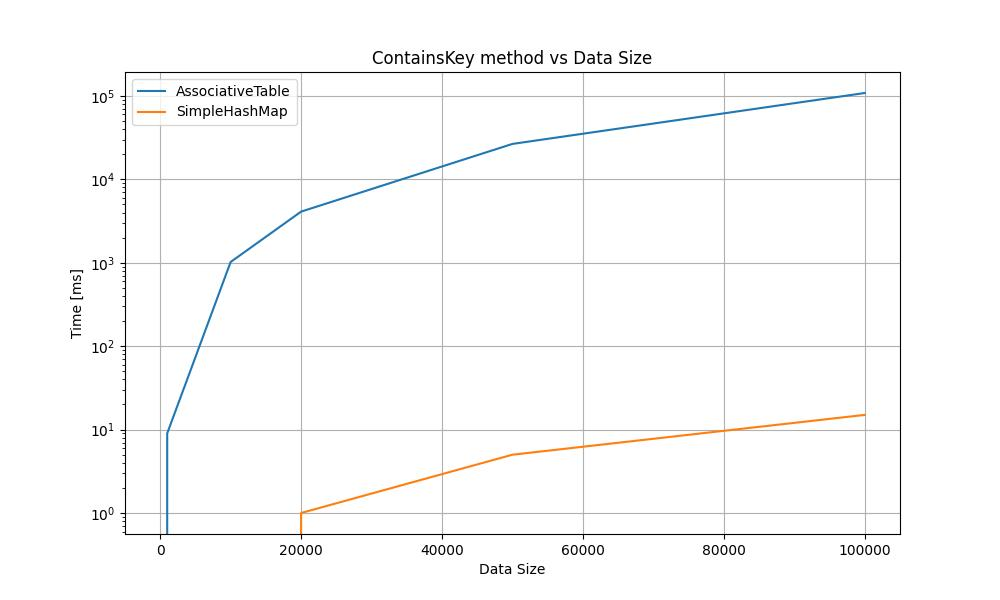
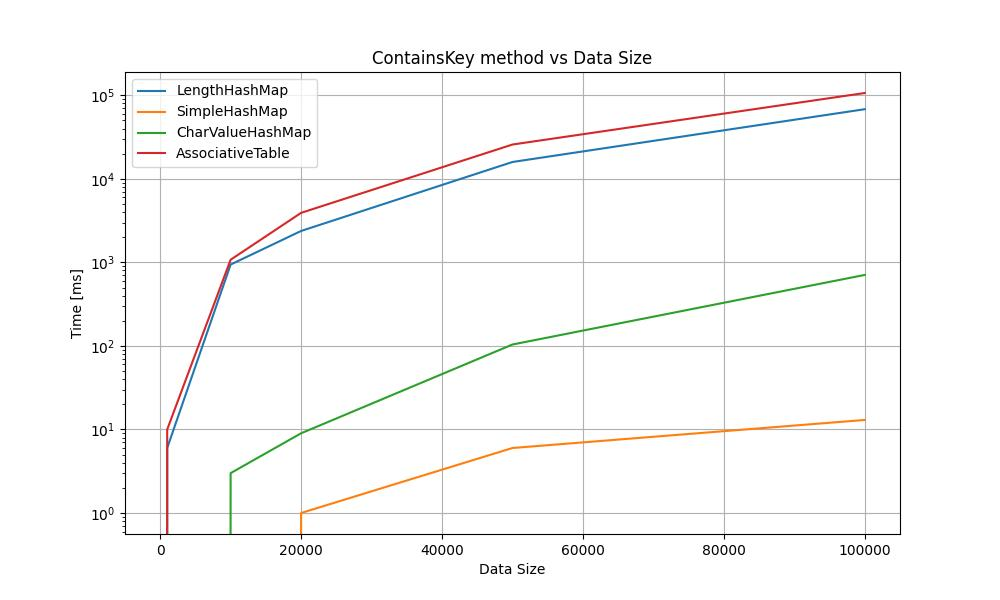
updated plots

diff --git a/src/DataStructures/Program.cs b/src/DataStructures/Program.cs
@@ -12,6 +12,8 @@ class Program
         foreach (int len in dataLengths)
         {
             results.Add(PerformanceTest<SimpleHashMap<string, int>>(len, new SimpleHashMap<string, int>(len)));
+            results.Add(PerformanceTest<LengthHashMap<string, int>>(len, new LengthHashMap<string, int>(len)));
+            results.Add(PerformanceTest<CharValueHashMap<string, int>>(len, new CharValueHashMap<string, int>(len)));
             results.Add(PerformanceTest<AssociativeTable<string, int>>(len, new AssociativeTable<string, int>(len)));
         }
 
